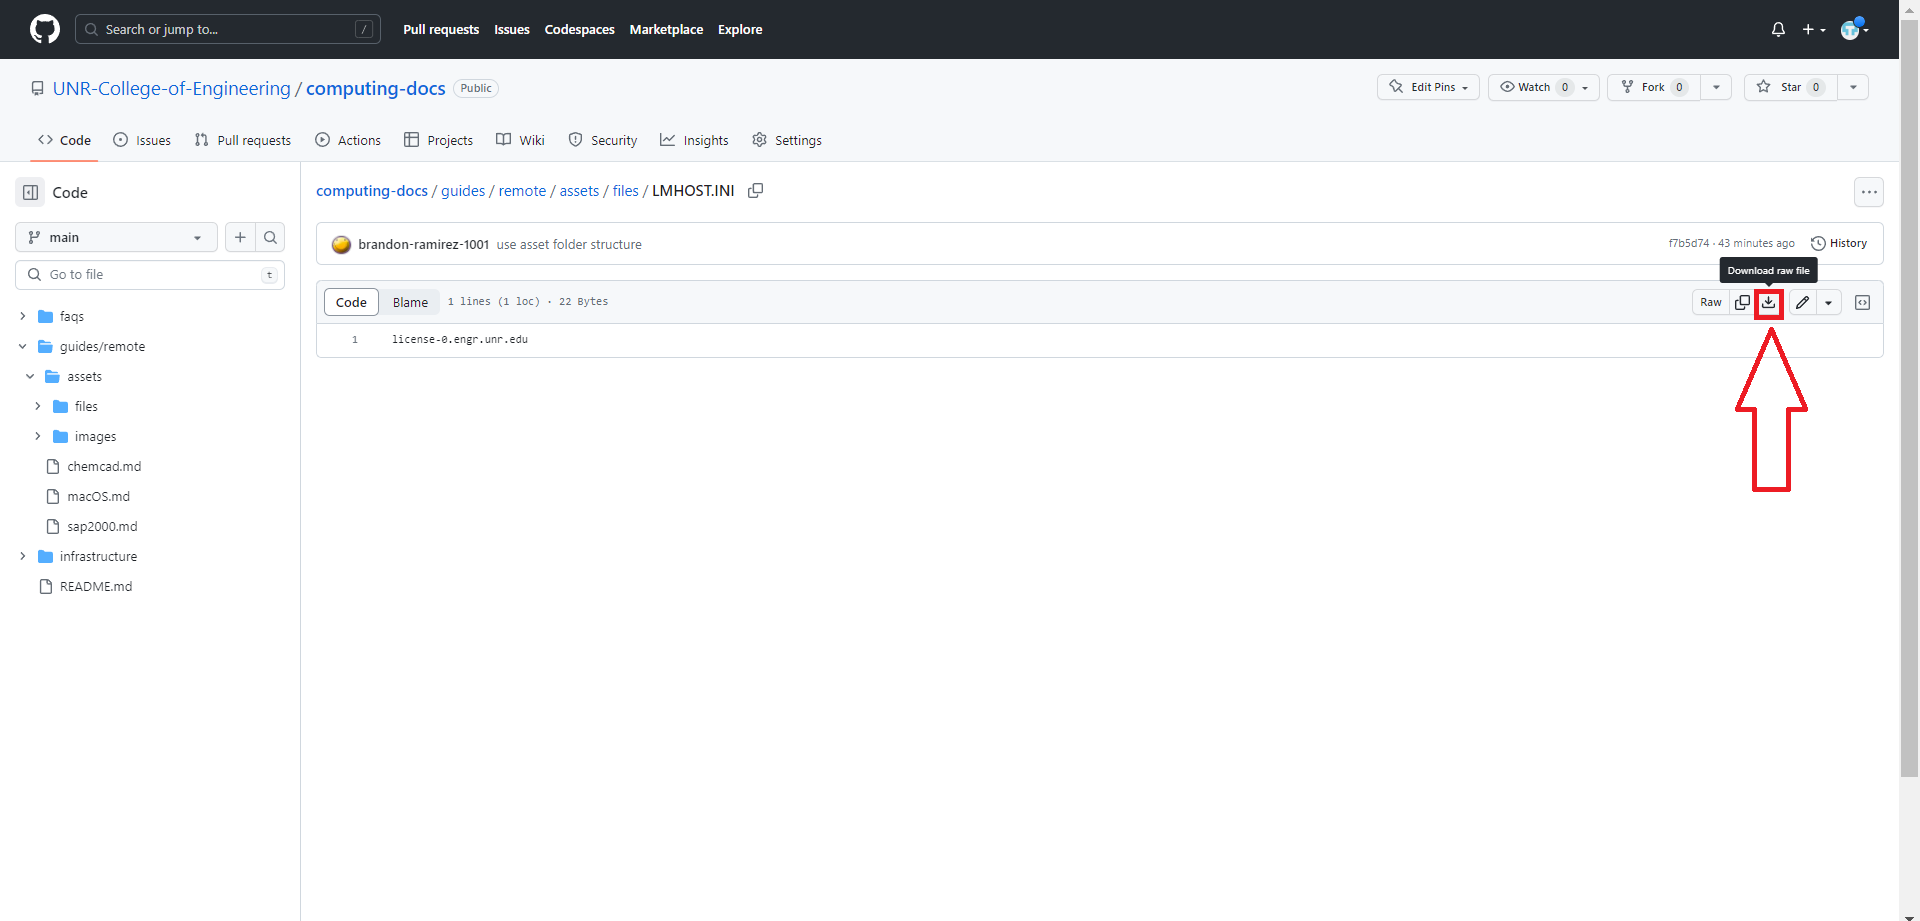
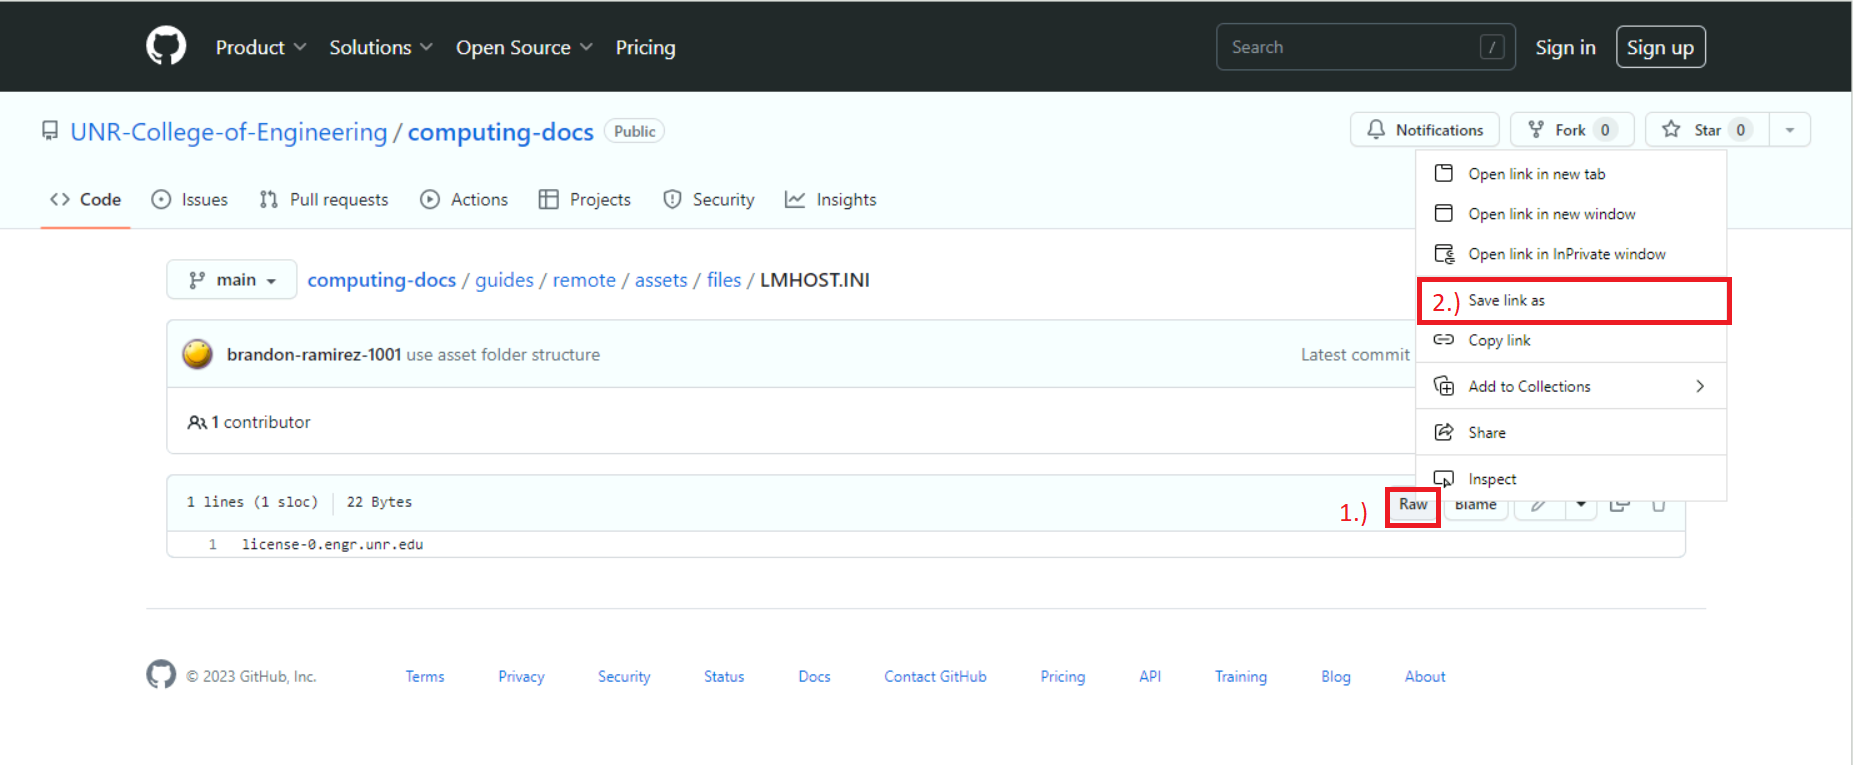
Updates to guide

diff --git a/guides/remote/sap2000-update-attempt.md b/guides/remote/sap2000-update-attempt.md
@@ -6,22 +6,22 @@ UNR has an upcoming license server change for the SAP 2000 18 program. Therefore
 
 1. Download the new INI file: <a download="LMHOST.INI" href="/guides/remote/assets/files/LMHOST.INI" title="LMHOST.INI">
 LMHOST.INI </a>
+Right click the "Raw" button and click "Save link as"
 ![Step 1](/guides/remote/assets/images/SAP2000-1-New.png)
-2. Click Keep and Save the file as "LMHOST.INI". The file will download usually in Downloads. You may move the file to Desktop for easy access (click and drag from Downloads onto Desktop).
+2. Click Keep and Save the file as "LMHOST". The file will download usually in Downloads. You may move the file to Desktop for convenience with steps shown below.
+![Step 2](/guides/remote/assets/images/SAP2000-3-2-New.png)
 3. Open folder explorer
 ![Step 3](/guides/remote/assets/images/SAP2000-4-NEW.PNG)
 4. Get to the directory: This PC > Local Disk (C:) > Program Files > Computers and Structures > SAP2000 18
-![Step 4](/guides/remote/assets/images/SAP2000-5-1.PNG)
+![Step 4](/guides/remote/assets/images/SAP2000-5-1-New.PNG)
 ![Step 4](/guides/remote/assets/images/SAP2000-5-2.PNG)
 ![Step 4](/guides/remote/assets/images/SAP2000-5-3.PNG)
 ![Step 4](/guides/remote/assets/images/SAP2000-5-4.PNG)
 ![Step 4](/guides/remote/assets/images/SAP2000-5-5.PNG)
-5. Copy and paste the LMHOST.INI file from step 2 into the SAP2000 18 folder
+5. Drag and Drop the LMHOST.INI file from step 2 into the SAP2000 18 folder
 ![Step 5](/guides/remote/assets/images/SAP2000-6-1.PNG)
 ![Step 5](/guides/remote/assets/images/SAP2000-6-2.PNG)
-6. Overwrite old LMHOST.INI file
-![Step 6](/guides/remote/assets/images/SAP2000-7-1.PNG)
-![Step 6](/guides/remote/assets/images/SAP2000-7-2.PNG)
+6. Overwrite old LMHOST.INI file by clicking "OK". Click "Replace the file in the destination". Click "Continue" and "Yes".
 7. SAP2000 18 should now be updated to the newest license server
 
 If you have any questions or problems, please email ehelp@engr.unr.edu for troubleshooting.
